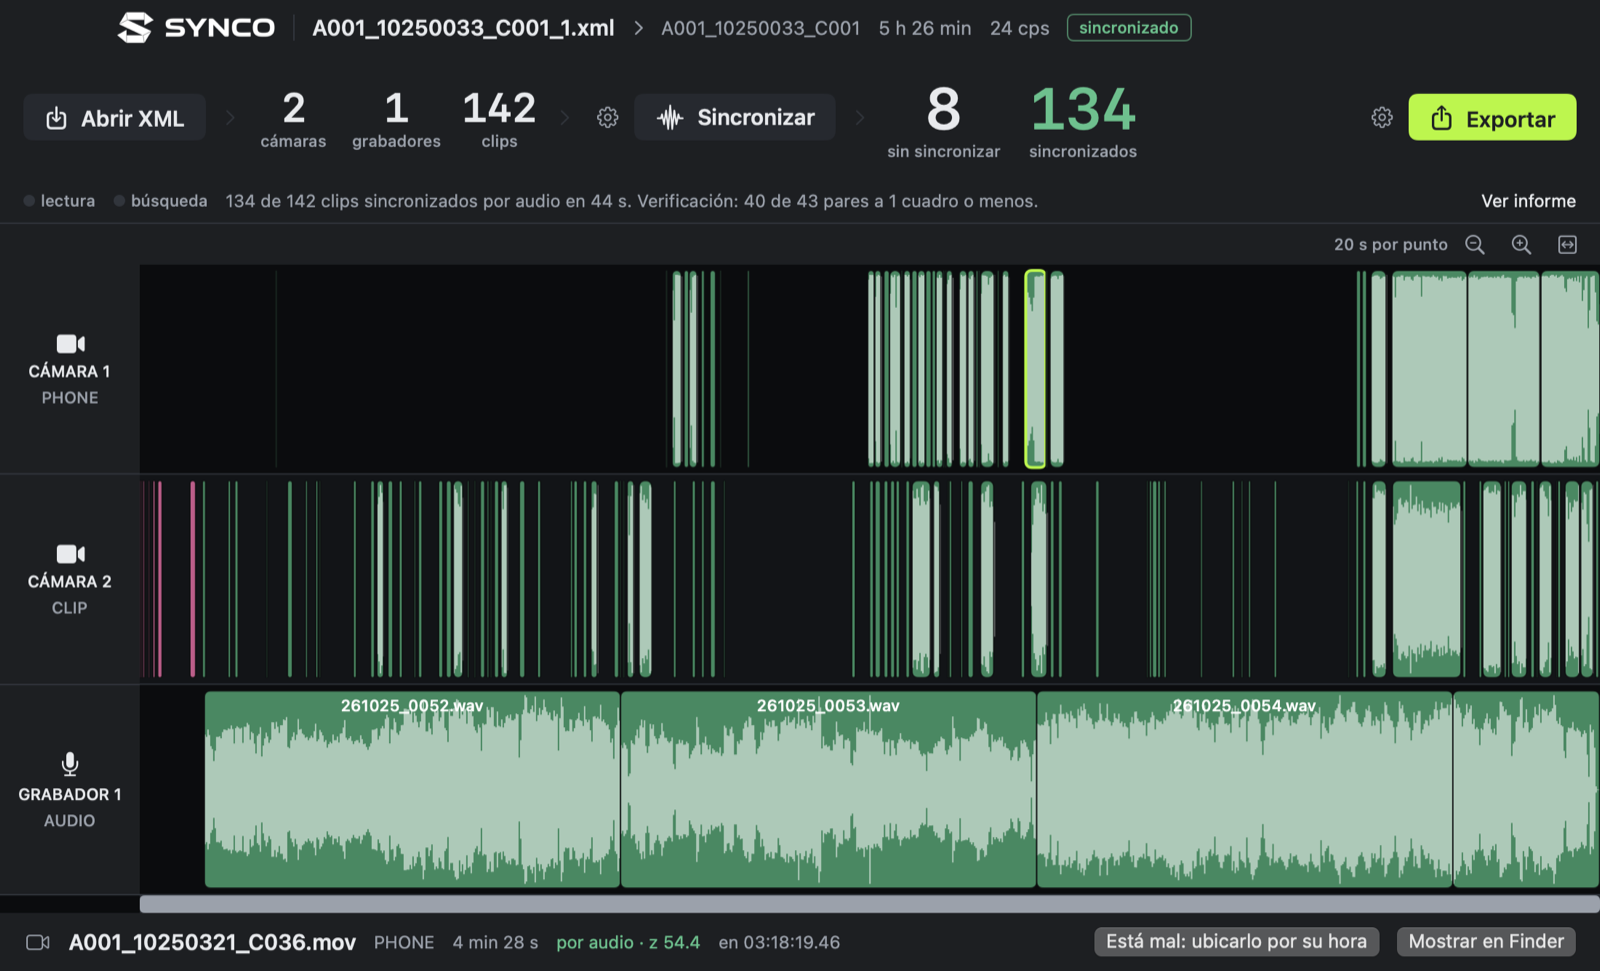
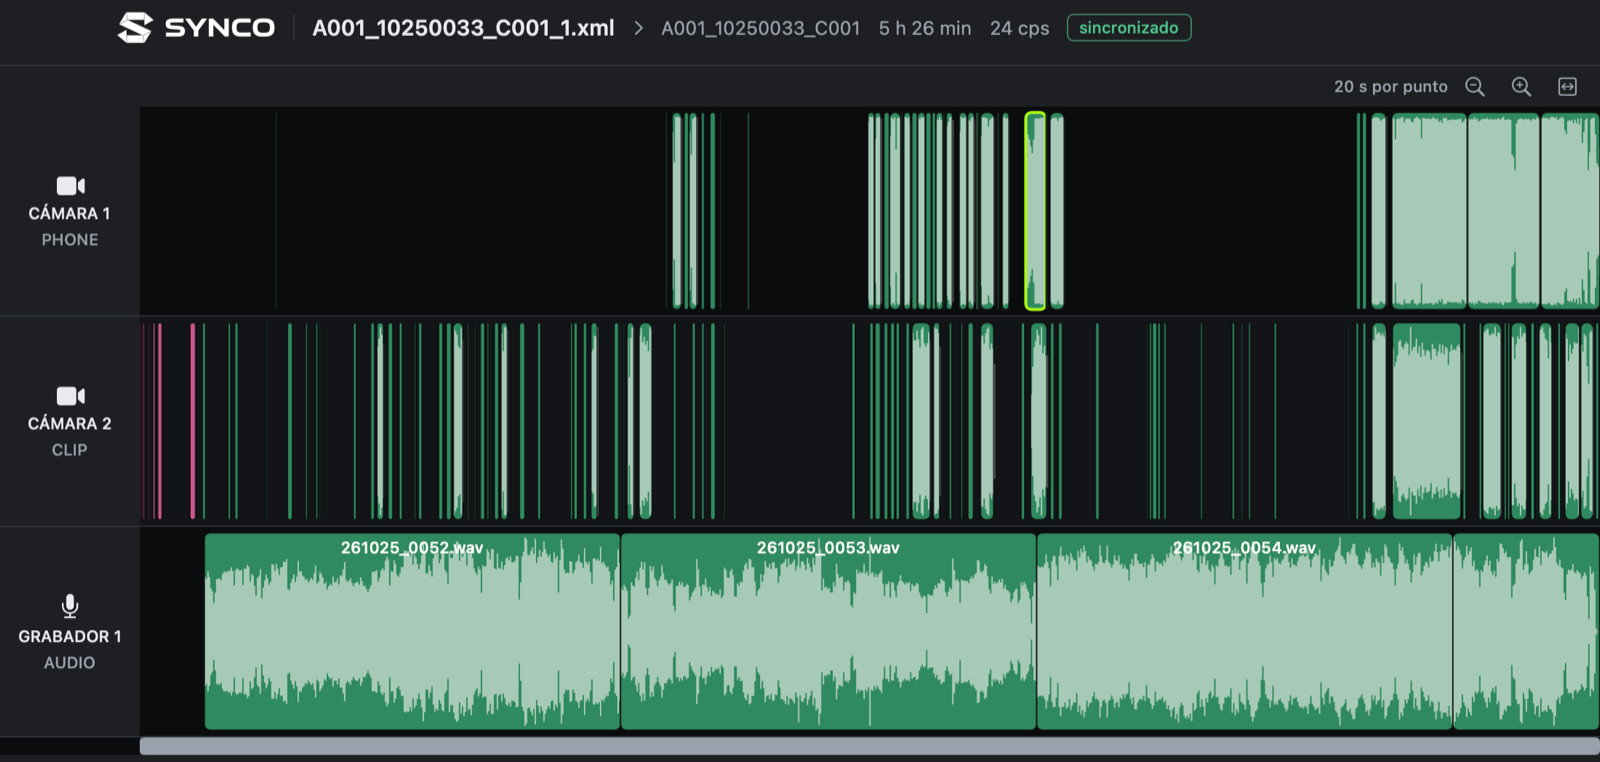
Web: captura de la app sin cantidades de clips

diff --git a/website/index.html b/website/index.html
@@ -69,7 +69,7 @@
 
   <section class="shot" aria-label="La app">
     <div class="wrap">
-      <div class="plate"><img src="assets/app.png" alt="Synco con un proyecto sincronizado: dos cámaras y un grabador, los clips sincronizados en verde" loading="lazy" width="1600" height="971"></div>
+      <div class="plate"><img src="assets/app.png?v=2" alt="Synco con un proyecto sincronizado: dos cámaras y un grabador, los clips sincronizados en verde" loading="lazy" width="1600" height="762"></div>
       <p class="caption">Un proyecto real: dos cámaras y un grabador, sincronizados en un clic.</p>
     </div>
   </section>
